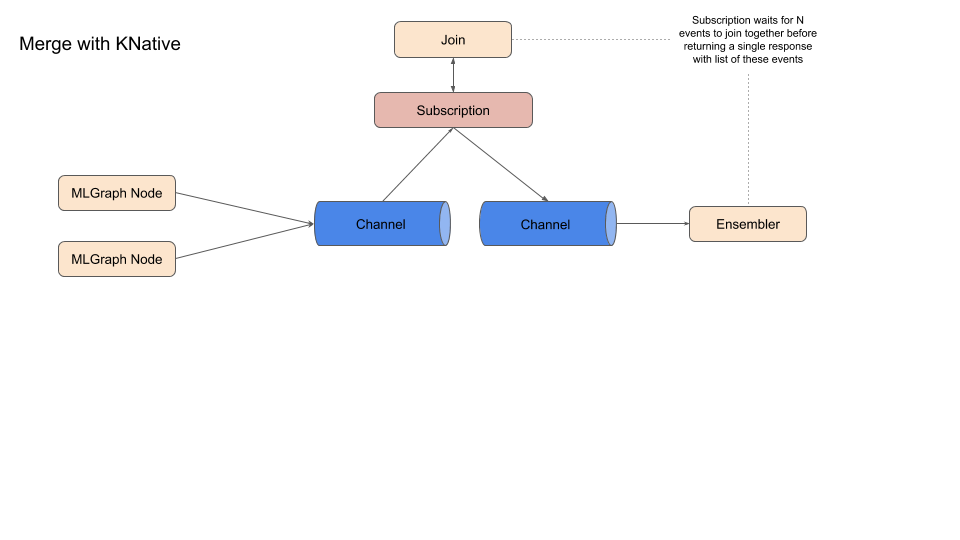
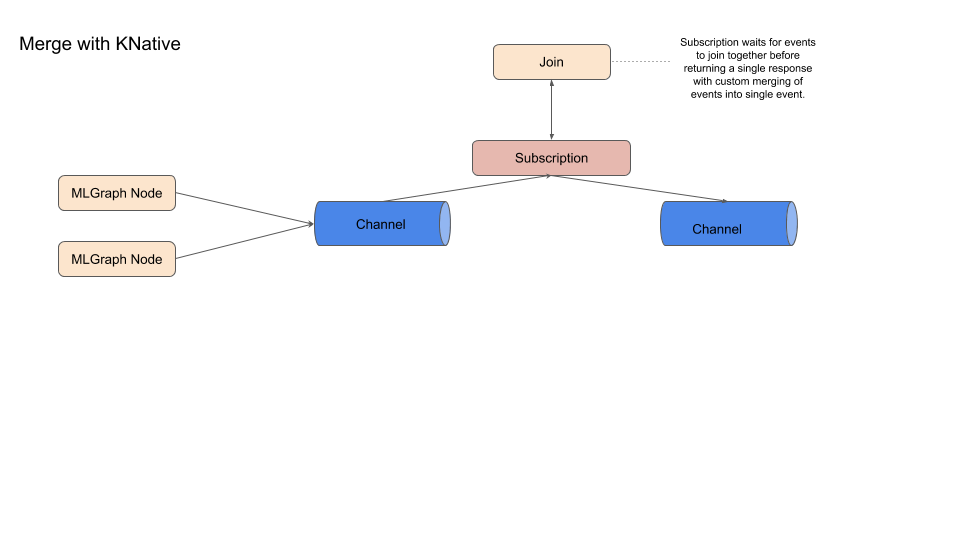
update knative impl

diff --git a/docs/knative-impl.md b/docs/knative-impl.md
@@ -6,23 +6,32 @@ There are two core operations that need to be applied:
 
   * Route: Route request to 1 or more subsequent nodes in the graph
   * Merge: Merge a set of responses from dependent nodes in the graph
-  
+
+Messages will be passed through the graph and be split and merged as defined by the specification.
+
 ## Route
 
-We need to be able to allow algorithmic control over requests passing through the graph. The route operation will allow each request to be specified which 1 or more child nodes the request proceeds to. 
+We need to be able to allow algorithmic control over requests passing through the graph. The route operation will allow each request to be specified which of 0 or more child nodes the request proceeds to.
 
- This could be accomplished via a Channel with custom Subscription that applies meta data to the CloudEvent 
- for each request that allows a subsequent Broker with Filters for each path to be used.
- 
+A KNative implementation is shown below:
+
 ![knative-route](./knative-route.png)
- 
+
+A Channel with a Subscription that applies meta data to the CloudEvent for each request that allows a subsequent Broker with Filters for each path to be used to direct requests. Headers would need to be added to the CloudEvent that will be matched by the Filters for each possible path to forward the request.
+
  
 ## Merge
-
-The main challenge with a merge is to join N child requests together into a single onward request. The core challenge for that seems to be to know when all N child events have arrived so the new aggregate event can be sent.
+ 
+We need a component that will allow events that have passed through the previous graph nodes to be joined together for one external request. When a request is managed by the graph it will be given a unique ID. The role of the merge component will be to join together events that have the same ID into a single event. A rough design is shown below:
 
 ![knative-merge](./knative-merge.png)
- 
+
+The challenge is for any such component to know when all events for a single request have reached it so that it can do its merge processing and emit a final event.
+
+
+## Questions
+
+ * Does KNative have the resilience to handle retries for lost messages?
  
  
  
